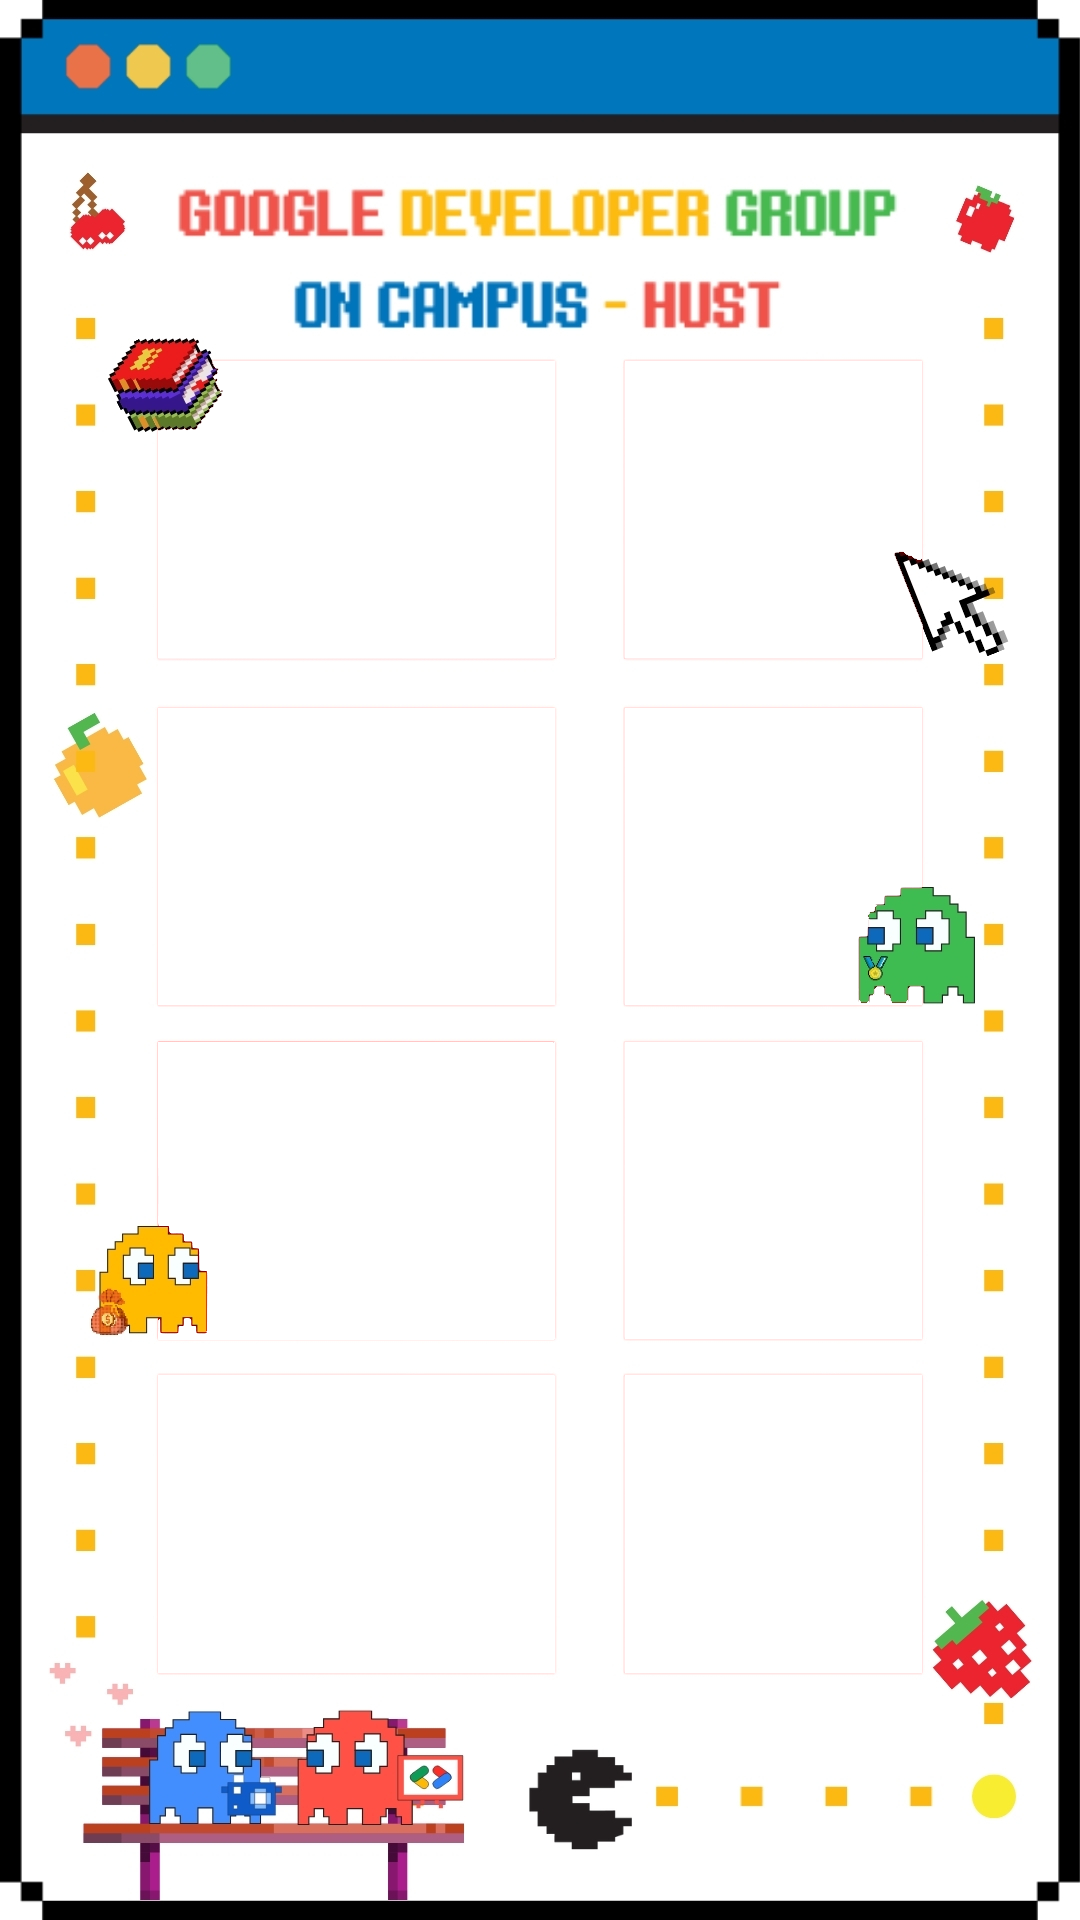
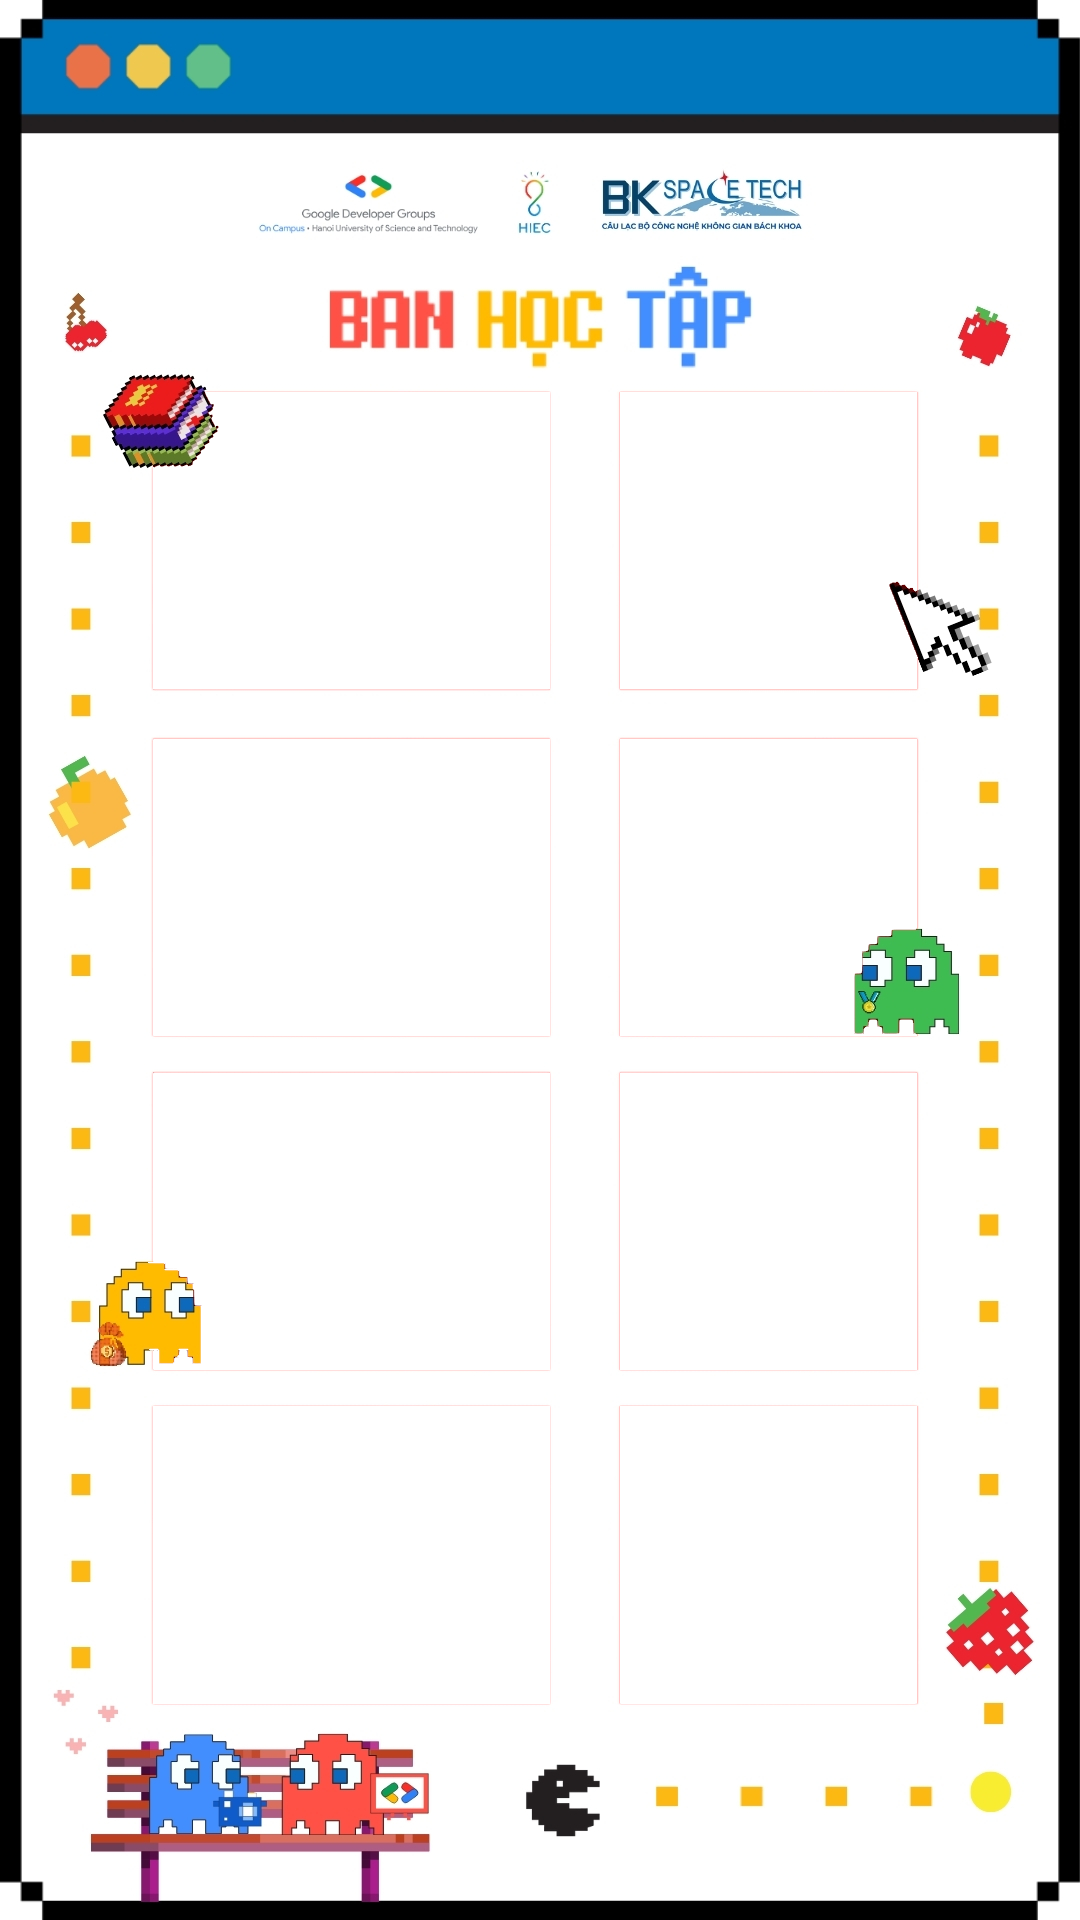
Change frame

diff --git a/demo/frame_compositor.py b/demo/frame_compositor.py
@@ -11,15 +11,11 @@ uses, and it's deliberate -- the frame has decorative elements meant to
 overlap the photo edges (border, shadow, corner accents), and those only look
 right sitting above the photos, not hidden underneath them.
 
-Slot coordinates were NOT taken from the original manual estimate as-is --
-they were measured directly from the frame's own alpha channel (the
-transparent "windows" are ground truth) via connected-component analysis.
-That caught 3 typos in the manual estimate: the right edge of the label-image
-column in rows 2-4 was given as x=992, which would have been visibly
-non-square and misaligned with the frame art; the actual window edge is at
-x=922 (matching row 1). See SLOTS below for the corrected, verified values --
-re-run the `if __name__ == "__main__"` block's --detect-slots flag if the
-frame is ever redesigned/replaced, rather than hand-editing coordinates again.
+Slot coordinates are NOT hand-estimated -- they're measured directly from the
+frame's own alpha channel (the transparent "windows" are ground truth) via
+connected-component analysis, using this file's own --detect-slots flag.
+Re-run it and paste the result into SLOTS below any time frame.png is
+redesigned/replaced, rather than hand-editing coordinates.
 
 Usage:
     # Build a strip from a photobooth_challenge.py session directory:
@@ -48,10 +44,10 @@ GESTURE_SEQUENCE = ["happy", "angry", "surprise", "gdg"]  # row order, top to bo
 # (x1, y1, x2, y2) in frame.png's own pixel space, verified against the frame's
 # alpha channel -- see module docstring.
 SLOTS = {
-    "happy":    {"capture": (158, 361, 555, 659),   "reference": (625, 361, 923, 658)},
-    "angry":    {"capture": (158, 708, 555, 1005),  "reference": (625, 708, 922, 1005)},
-    "surprise": {"capture": (158, 1042, 555, 1340), "reference": (625, 1042, 922, 1339)},
-    "gdg":      {"capture": (158, 1375, 555, 1673), "reference": (625, 1375, 922, 1673)},
+    "happy":    {"capture": (153, 392, 550, 689),   "reference": (620, 392, 918, 689)},
+    "angry":    {"capture": (153, 739, 550, 1036),  "reference": (620, 739, 917, 1036)},
+    "surprise": {"capture": (148, 1073, 550, 1370), "reference": (620, 1073, 917, 1370)},
+    "gdg":      {"capture": (153, 1406, 550, 1704), "reference": (620, 1406, 917, 1704)},
 }
 
 
